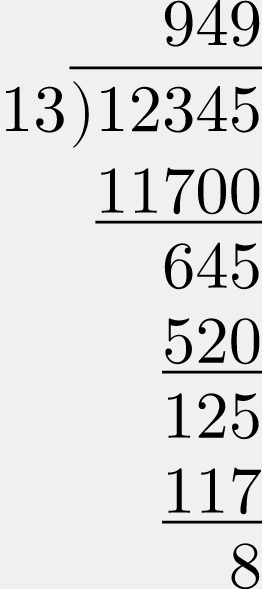
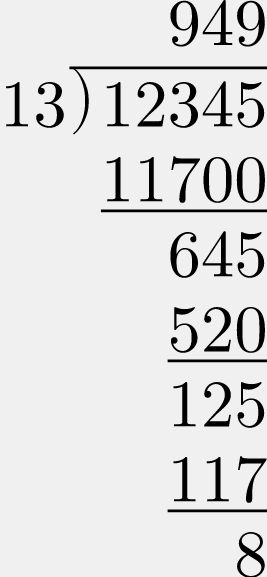
fix: connect long division header

diff --git a/CSharpMath.Rendering.Tests/TestLongDivisionRendering.cs b/CSharpMath.Rendering.Tests/TestLongDivisionRendering.cs
@@ -1,7 +1,9 @@
+using System;
 using System.IO;
 using System.Linq;
 using CSharpMath.Avalonia;
 using CSharpMath.SkiaSharp;
+using SkiaSharp;
 using Xunit;
 using AvaloniaMathPainter = CSharpMath.Avalonia.MathPainter;
 using SkiaMathPainter = CSharpMath.SkiaSharp.MathPainter;
@@ -64,6 +66,99 @@ namespace CSharpMath.Rendering.Tests {
       Assert.True(before.Width > 0 && before.Height > 0, kind);
       Assert.True(half.Width > 0 && half.Height > 0, kind);
       Assert.True(twice.Width > half.Width && twice.Height > half.Height, kind);
+    }
+
+    [Theory]
+    [InlineData(@"\longdiv{12345}{13}", CSharpMath.Atom.LineStyle.Text)]
+    [InlineData(@"\longdiv{12345}{13}", CSharpMath.Atom.LineStyle.Script)]
+    public void LongDivisionBarConnectsToDelimiterInTextAndScriptStyles(string latex, CSharpMath.Atom.LineStyle style) {
+      using var skia = RenderSkia(latex, style);
+      AssertBarConnectsToDelimiter(skia, latex);
+      global::Avalonia.Skia.SkiaPlatform.Initialize();
+      using var avalonia = new MemoryStream();
+      new AvaloniaMathPainter { LaTeX = latex, LineStyle = style }.DrawAsPng(avalonia);
+      avalonia.Position = 0;
+      AssertBarConnectsToDelimiter(avalonia, latex);
+    }
+
+    private static MemoryStream RenderSkia(string latex, CSharpMath.Atom.LineStyle style) {
+      using var rendered = new SkiaMathPainter { LaTeX = latex, LineStyle = style }.DrawAsStream();
+      var copy = new MemoryStream();
+      rendered!.CopyTo(copy);
+      copy.Position = 0;
+      return copy;
+    }
+
+    private static void AssertBarConnectsToDelimiter(Stream png, string latex) {
+      using var bitmap = SKBitmap.Decode(png);
+      Assert.NotNull(bitmap);
+      var dark = new bool[bitmap!.Width, bitmap.Height];
+      for (var y = 0; y < bitmap.Height; y++)
+        for (var x = 0; x < bitmap.Width; x++) {
+          var color = bitmap.GetPixel(x, y);
+          dark[x, y] = color.Alpha > 32 && color.Red < 190 && color.Green < 190 && color.Blue < 190;
+        }
+
+      var bestY = -1;
+      var bestStart = 0;
+      var bestLength = 0;
+      for (var y = 0; y < bitmap.Height; y++) {
+        var start = -1;
+        for (var x = 0; x <= bitmap.Width; x++) {
+          if (x < bitmap.Width && dark[x, y]) {
+            if (start < 0) start = x;
+          } else if (start >= 0) {
+            if (x - start > bestLength) {
+              bestY = y;
+              bestStart = start;
+              bestLength = x - start;
+            }
+            start = -1;
+          }
+        }
+      }
+      Assert.True(bestLength >= 8, $"No overbar found for {latex}.");
+
+      var ruleBottom = bestY;
+      for (var y = bestY + 1; y < bitmap.Height; y++) {
+        var run = LongestDarkRun(dark, bitmap.Width, y);
+        if (run.Length < bestLength * 0.8) break;
+        ruleBottom = y;
+      }
+
+      // The connected component must reach below the rule near its left endpoint.
+      var visited = new bool[bitmap.Width, bitmap.Height];
+      var pending = new System.Collections.Generic.Queue<(int X, int Y)>();
+      for (var x = bestStart; x < bestStart + bestLength; x++) {
+        visited[x, bestY] = true;
+        pending.Enqueue((x, bestY));
+      }
+      var reachesBelow = false;
+      while (pending.Count > 0) {
+        var (x, y) = pending.Dequeue();
+        if (y > ruleBottom + Math.Max(3, bitmap.Height / 12) && x <= bestStart + Math.Max(8, bitmap.Height / 8)) reachesBelow = true;
+        foreach (var (nx, ny) in new[] { (x - 1, y), (x + 1, y), (x, y - 1), (x, y + 1) })
+          if (nx >= 0 && nx < bitmap.Width && ny >= 0 && ny < bitmap.Height && dark[nx, ny] && !visited[nx, ny]) {
+            visited[nx, ny] = true;
+            pending.Enqueue((nx, ny));
+          }
+      }
+      Assert.True(reachesBelow, $"Overbar is not connected to the delimiter for {latex}.");
+    }
+
+    private static (int Start, int Length) LongestDarkRun(bool[,] dark, int width, int y) {
+      var bestStart = 0;
+      var bestLength = 0;
+      var start = -1;
+      for (var x = 0; x <= width; x++) {
+        if (x < width && dark[x, y]) {
+          if (start < 0) start = x;
+        } else if (start >= 0) {
+          if (x - start > bestLength) (bestStart, bestLength) = (start, x - start);
+          start = -1;
+        }
+      }
+      return (bestStart, bestLength);
     }
   }
 }

diff --git a/CSharpMath/Display/Displays/LongDivisionHeaderDisplay.cs b/CSharpMath/Display/Displays/LongDivisionHeaderDisplay.cs
@@ -1,0 +1,61 @@
+using System.Drawing;
+using CSharpMath.Atom;
+
+namespace CSharpMath.Display.Displays {
+  using FrontEnd;
+
+  internal sealed class LongDivisionHeaderDisplay<TFont, TGlyph> : IDisplay<TFont, TGlyph>
+    where TFont : IFont<TGlyph> {
+    readonly IDisplay<TFont, TGlyph> _dividend;
+    readonly IGlyphDisplay<TFont, TGlyph> _delimiter;
+    readonly float _lineShiftUp;
+    readonly float _lineThickness;
+
+    internal LongDivisionHeaderDisplay(IDisplay<TFont, TGlyph> dividend,
+      IGlyphDisplay<TFont, TGlyph> delimiter, float lineShiftUp,
+      float lineThickness, Range range) {
+      _dividend = dividend;
+      _delimiter = delimiter;
+      _lineShiftUp = lineShiftUp;
+      _lineThickness = lineThickness;
+      Range = range;
+    }
+
+    public float Ascent => System.Math.Max(_lineShiftUp + _lineThickness / 2,
+      System.Math.Max(_dividend.Position.Y - Position.Y + _dividend.Ascent,
+        _delimiter.Position.Y - Position.Y + _delimiter.Ascent));
+    public float Descent => System.Math.Max(-_lineShiftUp + _lineThickness / 2,
+      System.Math.Max(-(_dividend.Position.Y - Position.Y) + _dividend.Descent,
+        -(_delimiter.Position.Y - Position.Y) + _delimiter.Descent));
+    public float Width => System.Math.Max(_dividend.Position.X - Position.X + _dividend.Width,
+      _delimiter.Position.X - Position.X + _delimiter.Width);
+    public Range Range { get; }
+    PointF _position;
+    public PointF Position {
+      get => _position;
+      set {
+        var delta = new PointF(value.X - _position.X, value.Y - _position.Y);
+        _position = value;
+        _dividend.Position = new PointF(_dividend.Position.X + delta.X, _dividend.Position.Y + delta.Y);
+        _delimiter.Position = new PointF(_delimiter.Position.X + delta.X, _delimiter.Position.Y + delta.Y);
+      }
+    }
+    public bool HasScript { get; set; }
+    public Color? TextColor { get; set; }
+    public Color? BackColor { get; set; }
+    public void Draw(IGraphicsContext<TFont, TGlyph> context) {
+      this.DrawBackground(context);
+      _delimiter.Draw(context);
+      _dividend.Draw(context);
+      context.SaveState();
+      context.DrawLine(Position.X, Position.Y + _lineShiftUp,
+        Position.X + Width, Position.Y + _lineShiftUp, _lineThickness, TextColor);
+      context.RestoreState();
+    }
+    public void SetTextColorRecursive(Color? textColor) {
+      TextColor ??= textColor;
+      _delimiter.SetTextColorRecursive(textColor);
+      _dividend.SetTextColorRecursive(textColor);
+    }
+  }
+}

diff --git a/CSharpMath/Display/Typesetter.cs b/CSharpMath/Display/Typesetter.cs
@@ -318,6 +318,14 @@ namespace CSharpMath.Display {
             _displayAtoms.Add(divisionDisplay);
             _currentPosition.X += divisionDisplay.Width;
             break;
+          case LongDivisionHeader header:
+            AddDisplayLine(false);
+            AddInterElementSpace(prevAtom, header);
+            var headerDisplay = MakeLongDivisionHeader(header);
+            headerDisplay.Position = _currentPosition;
+            _displayAtoms.Add(headerDisplay);
+            _currentPosition.X += headerDisplay.Width;
+            break;
           case LargeOperator op:
             AddDisplayLine(false);
             AddInterElementSpace(prevAtom, op);
@@ -725,6 +733,25 @@ namespace CSharpMath.Display {
         ? FindGlyphForBoundary(right, glyphHeight)
         : null;
       return new InnerDisplay<TFont, TGlyph>(innerListDisplay, leftGlyph, rightGlyph, range);
+    }
+
+    private LongDivisionHeaderDisplay<TFont, TGlyph> MakeLongDivisionHeader(LongDivisionHeader header) {
+      var inner = new Inner(new Boundary(")"), header.Dividend, Boundary.Empty);
+      var innerDisplay = MakeInner(inner, header.IndexRange);
+      var dividend = innerDisplay.Inner;
+      var delimiter = innerDisplay.Left ?? throw new InvalidCodePathException("Long division delimiter was not created.");
+      var spacing = 2 * _mathTable.MuUnit(_styleFont);
+      var thickness = _mathTable.OverbarRuleThickness(_styleFont);
+      var lineShiftUp = dividend.Ascent + _mathTable.OverbarVerticalGap(_font)
+        + thickness + _mathTable.OverbarExtraAscender(_font);
+      // Raise the delimiter independently until its ink bounds meet the center
+      // of the rule. The half-rule overlap keeps the junction closed after
+      // rasterization, as CTAN's smashed and raised \big) does.
+      var delimiterTop = delimiter.Ascent + delimiter.Position.Y;
+      delimiter.Position = new PointF(0, lineShiftUp - delimiterTop);
+      dividend.Position = new PointF(delimiter.Width + spacing, 0);
+      return new LongDivisionHeaderDisplay<TFont, TGlyph>(dividend, delimiter,
+        lineShiftUp, thickness, header.IndexRange);
     }
 
     private IGlyphDisplay<TFont, TGlyph> FindGlyphForBoundary(

diff --git a/CSharpMath/Atom/Atoms/LongDivision.cs b/CSharpMath/Atom/Atoms/LongDivision.cs
@@ -47,10 +47,7 @@ namespace CSharpMath.Atom.Atoms {
       var table = new Table { InterColumnSpacing = 1, InterRowAdditionalSpacing = 1 };
       table.SetCell(Digits(QuotientText), 0, 1);
       table.SetCell(Digits(Denominator), 1, 0);
-      table.SetCell(new MathList(new Overline(new MathList(new Inner(
-        new Boundary(")"),
-        Digits(Numerator),
-        Boundary.Empty)))), 1, 1);
+      table.SetCell(new MathList(new LongDivisionHeader(Digits(Numerator))), 1, 1);
       table.SetAlignment(ColumnAlignment.Right, 0);
       table.SetAlignment(ColumnAlignment.Right, 1);
 
@@ -77,5 +74,16 @@ namespace CSharpMath.Atom.Atoms {
     public override string DebugString => $@"\longdiv{{{Numerator}}}{{{Denominator}}}";
     public override bool Equals(object obj) => obj is LongDivision d && EqualsAtom(d) && Numerator == d.Numerator && Denominator == d.Denominator;
     public override int GetHashCode() => (base.GetHashCode(), Numerator, Denominator).GetHashCode();
+  }
+
+  // The long-division bar and closing delimiter have a font-specific junction
+  // which cannot be represented by a generic Overline around an Inner.
+  internal sealed class LongDivisionHeader : MathAtom, IMathListContainer {
+    internal MathList Dividend { get; }
+    internal LongDivisionHeader(MathList dividend) => Dividend = dividend ?? throw new ArgumentNullException(nameof(dividend));
+    public IEnumerable<MathList> InnerLists => new[] { Dividend };
+    public override bool ScriptsAllowed => false;
+    protected override MathAtom CloneInside(bool finalize) => new LongDivisionHeader(Dividend.Clone(finalize));
+    public override string DebugString => $@"\longdivheader{{{Dividend.DebugString}}}";
   }
 }

diff --git a/CSharpMath.Core.Tests/Atom/LongDivisionTests.cs b/CSharpMath.Core.Tests/Atom/LongDivisionTests.cs
@@ -12,6 +12,7 @@ namespace CSharpMath.Core.AtomTests {
       Underline underline => CellText(underline.InnerList),
       Overline overline => CellText(overline.InnerList),
       Inner inner => CellText(inner.InnerList),
+      IMathListContainer container => CellText(Assert.Single(container.InnerLists)),
       _ => cell.DebugString
     };
     static LongDivision Parse(string source) {
@@ -102,11 +103,9 @@ namespace CSharpMath.Core.AtomTests {
       var atom = new LongDivision("12345", "13");
       var layout = (Table)typeof(LongDivision).GetMethod("CreateLayout", BindingFlags.Instance | BindingFlags.NonPublic)!.Invoke(atom, null)!;
       var dividend = layout.Cells[1][1];
-      var overline = Assert.IsType<Overline>(dividend[0]);
-      var inner = Assert.IsType<Inner>(overline.InnerList[0]);
-      Assert.Equal(")", inner.LeftBoundary.Nucleus);
-      Assert.Equal(Boundary.Empty, inner.RightBoundary);
-      var digits = Assert.IsType<Number>(inner.InnerList[0]);
+      Assert.Equal("LongDivisionHeader", dividend[0].GetType().Name);
+      var header = Assert.IsAssignableFrom<IMathListContainer>(dividend[0]);
+      var digits = Assert.IsType<Number>(Assert.Single(Assert.Single(header.InnerLists)));
       Assert.Equal("12345", digits.Nucleus);
       Assert.Equal("949", CellText(layout.Cells[0][1]));
       Assert.Equal(ColumnAlignment.Right, layout.GetAlignment(1));
